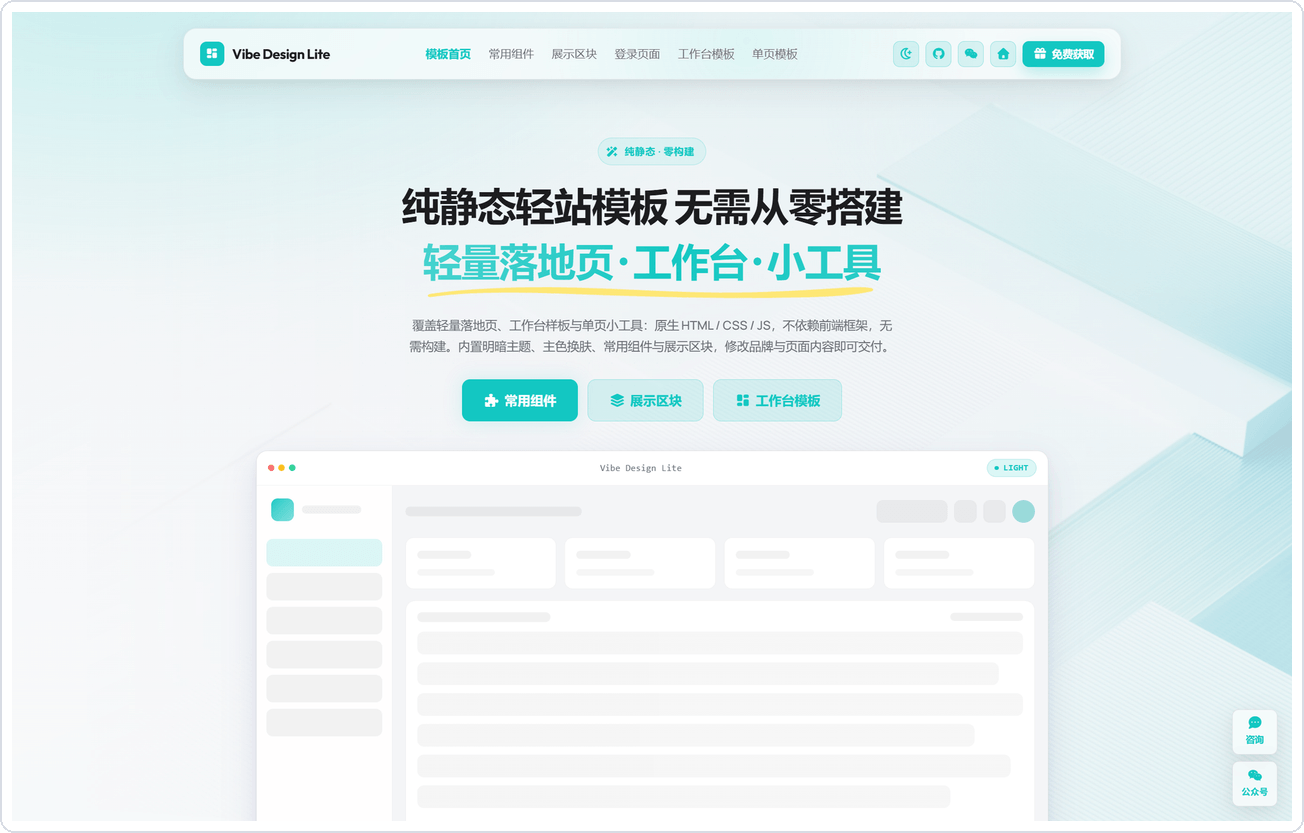
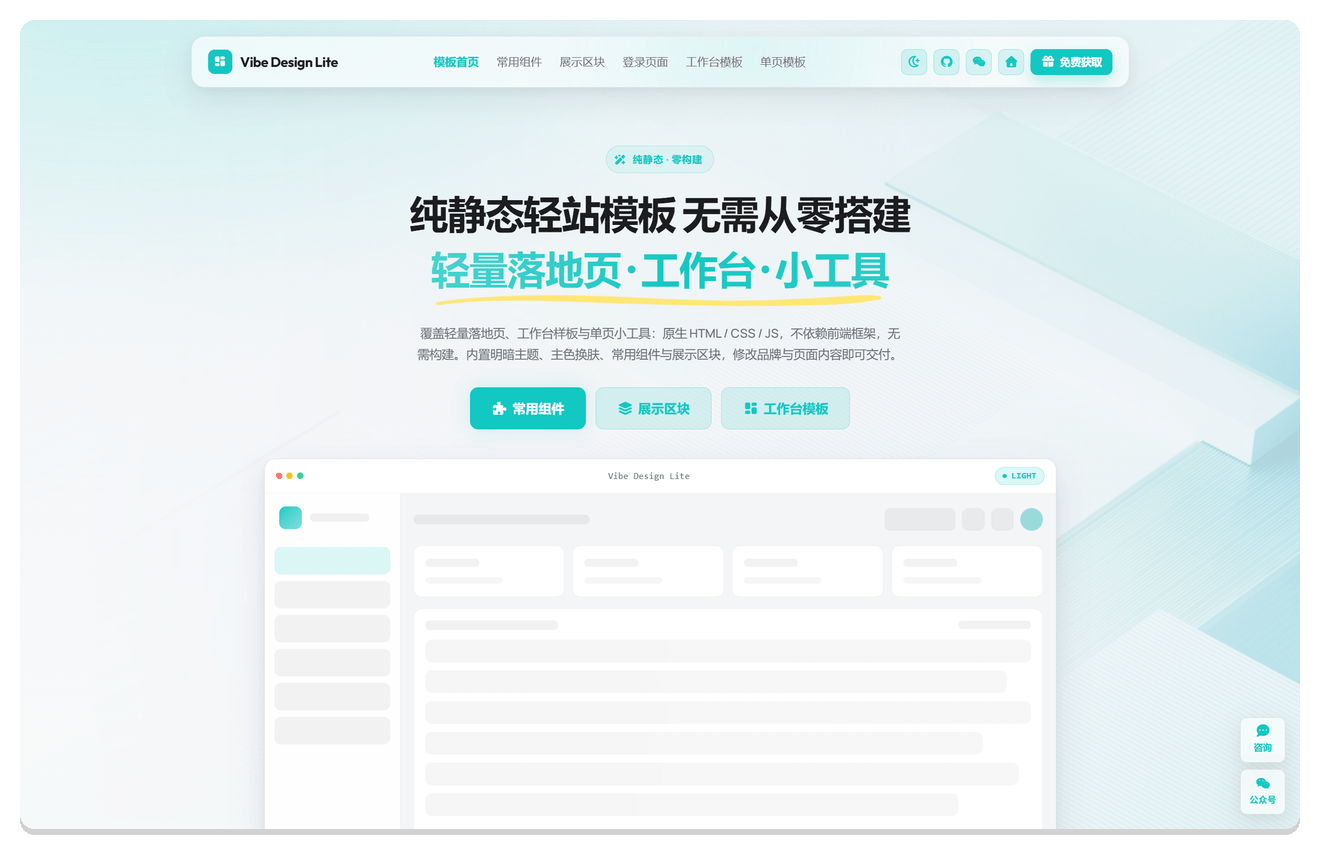
README previews: rounded corners and shadow only, no border

diff --git a/scripts/frame-screenshots.py b/scripts/frame-screenshots.py
@@ -1,37 +1,48 @@
 # -*- coding: utf-8 -*-
-"""为 README 预览图烘焙圆角描边（GitHub 会剥离 img 的 style）。"""
+"""为 README 预览图烘焙圆角 + 阴影（GitHub 会剥离 img 的 style）。"""
 from __future__ import annotations
 
 from pathlib import Path
 
-from PIL import Image, ImageDraw
+from PIL import Image, ImageDraw, ImageFilter
 
 SCREENSHOT = Path(__file__).resolve().parent.parent / "screenshot"
-BORDER = 2
 RADIUS = 14
-PAD = 10
-STROKE = (216, 220, 228, 255)
-BG = (255, 255, 255, 255)
+SHADOW_OFFSET = (0, 6)
+SHADOW_BLUR = 14
+SHADOW_ALPHA = 48
+MARGIN = 20
+
+
+def rounded_mask(size: tuple[int, int], radius: int) -> Image.Image:
+    mask = Image.new("L", size, 0)
+    ImageDraw.Draw(mask).rounded_rectangle(
+        [0, 0, size[0] - 1, size[1] - 1], radius=radius, fill=255
+    )
+    return mask
 
 
 def frame_image(path: Path) -> None:
     src = Image.open(path).convert("RGBA")
     w, h = src.size
-    inset = BORDER + PAD
-    cw, ch = w + 2 * inset, h + 2 * inset
-    out = Image.new("RGBA", (cw, ch), (0, 0, 0, 0))
-    draw = ImageDraw.Draw(out)
-    draw.rounded_rectangle(
-        [0, 0, cw - 1, ch - 1],
-        radius=RADIUS,
-        fill=BG,
-        outline=STROKE,
-        width=BORDER,
-    )
-    out.paste(src, (inset, inset), src)
-    rgb = Image.new("RGB", out.size, (255, 255, 255))
-    rgb.paste(out, mask=out.split()[3])
-    rgb.save(path, "PNG", optimize=True)
+    mask = rounded_mask((w, h), RADIUS)
+
+    rounded = Image.new("RGBA", (w, h), (0, 0, 0, 0))
+    rounded.paste(src, (0, 0), mask)
+
+    shadow = Image.new("RGBA", (w, h), (17, 17, 19, SHADOW_ALPHA))
+    shadow = shadow.filter(ImageFilter.GaussianBlur(SHADOW_BLUR))
+
+    cw = w + 2 * MARGIN
+    ch = h + 2 * MARGIN
+    ox, oy = MARGIN + SHADOW_OFFSET[0], MARGIN + SHADOW_OFFSET[1]
+    canvas = Image.new("RGBA", (cw, ch), (0, 0, 0, 0))
+    canvas.paste(shadow, (ox, oy), mask)
+    canvas.paste(rounded, (MARGIN, MARGIN), rounded)
+
+    flat = Image.new("RGB", canvas.size, (255, 255, 255))
+    flat.paste(canvas, mask=canvas.split()[3])
+    flat.save(path, "PNG", optimize=True)
     print(f"framed {path.name} {w}x{h} -> {cw}x{ch}")
 
 

diff --git a/README.md b/README.md
@@ -21,7 +21,7 @@
 
 ## 预览截图
 
-> 圆角与描边已烘焙进 PNG（GitHub README 会剥离 `<img>` 的 `style`，CSS 边框不可靠）。换图后可在本机运行：`python scripts/frame-screenshots.py`。
+> 圆角与阴影已烘焙进 PNG（GitHub README 会剥离 `<img>` 的 `style`）。换图后在本机运行：`python scripts/frame-screenshots.py`（请用未处理的原图，勿重复叠加）。
 
 **落地首页** · `index.html`
 
